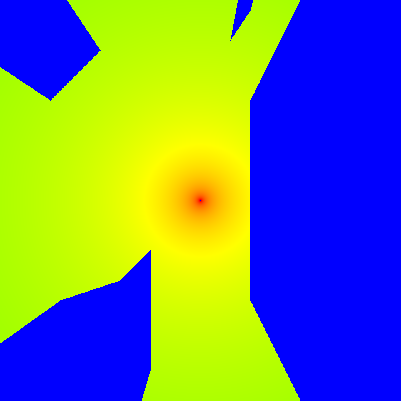
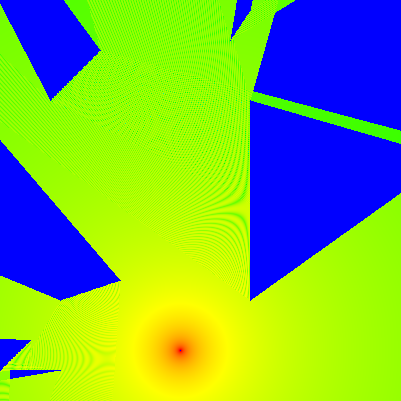
feat: 2d raytracing go finished

diff --git a/backendGo/utils/2draytracing/main.go b/backendGo/utils/2draytracing/main.go
@@ -112,6 +112,7 @@ func (rt *RayTracing) calculateRayTracing() {
 			if checkLineOfSight(rt.TransmitterPos, receiverPos, rt.Walls) {
 				H += calculateTransmittance(receiverPos, rt.TransmitterPos, rt.WaveLength, 1.0)
 			}
+			H += calculateSingleWallReflection(rt.MirroredTransmitters, rt.TransmitterPos, receiverPos, rt.Walls, rt.WaveLength, rt.ReflectionFactor)
 			if H == 0 {
 				rt.PowerMap[i][j] = -150
 			} else {
@@ -130,6 +131,32 @@ func checkLineOfSight(transmitterPos, receiverPos Point, walls []Vector) bool {
 	return true
 }
 
+func calculateSingleWallReflection(mirroredTransmitters []Point, transmitterPos, receiverPos Point, walls []Vector, waveLength, reflectionFactor float64) complex128 {
+	H := complex(0,0)
+	for i, wall := range walls {
+		if twoVectors(receiverPos, mirroredTransmitters[i], wall.A, wall.B) <= 0 {
+			continue
+		} 
+		reflectionPoint := calculateCrossPoint(receiverPos, mirroredTransmitters[i], wall.A, wall.B)
+		collision := false
+		for j := range(len(walls)-1) {
+			index := (i+j+1) % len(walls)
+			if twoVectors(transmitterPos, reflectionPoint, walls[index].A, walls[index].B) >= 0 {
+				collision = true
+				break
+			}
+			if twoVectors(reflectionPoint, receiverPos, walls[index].A, walls[index].B) >= 0{
+				collision = true
+				break
+			}
+		}
+		if !collision {
+			H += calculateTransmittance(receiverPos, mirroredTransmitters[i], waveLength, reflectionFactor)
+		}
+	}
+	return H
+}
+
 func calculateTransmittance(p1, p2 Point, waveLength, reflectionRef float64) complex128 {
 	r := calculateDist(p1, p2)
 	if r > 0 {
@@ -139,6 +166,29 @@ func calculateTransmittance(p1, p2 Point, waveLength, reflectionRef float64) com
 		return H
 	} else {
 		return 0
+	}
+}
+func calculateCrossPoint (A, B, C, D Point) Point {
+	if A.X == B.X {
+		x := A.X
+		a2 := (D.Y - C.Y)/(D.X - C.X)
+		b2 := C.Y - a2 * C.X
+		y := a2 * x + b2
+		return Point{X:x, Y:y}
+	} else if C.X == D.X{
+		x := C.X
+		a1 := (B.Y-A.Y)/(B.X-A.X)
+		b1 := A.Y - a1*A.X
+		y := a1 * x + b1
+		return Point{X:x, Y:y}
+	} else {
+		a1 := (B.Y-A.Y)/(B.X-A.X)
+		b1 := A.Y - a1*A.X
+		a2 := (D.Y - C.Y)/(D.X - C.X)
+		b2 := C.Y - a2 * C.X
+		x := (b2-b1)/(a1-a2)
+		y := a1 * x + b1
+		return Point{X:x, Y:y}
 	}
 }
 func calculateDist(p1, p2 Point) float64 {
@@ -320,11 +370,11 @@ func getHeatmapColor(value float64) (uint8, uint8, uint8) {
 
 func main() {
 	matrixDimensions := Point{X:40, Y:40}
-	transmitterPos := Point{X:20, Y:20}
-	transmitterPower := 10.0 // mW
-	transmitterFreq := 2.4   // GHz
-	reflectionFactor := 0.8
-	walls := []Vector{{A:Point{X:0,Y:3}, B:Point{X:3,Y:6}}, {A:Point{X:1,Y:3}, B:Point{X:6,Y:3}}, {A:Point{X:6,Y:10}, B:Point{X:12,Y:12}}, {A:Point{X:15,Y:15}, B:Point{X:15,Y:3}},{A:Point{X:25,Y:10}, B:Point{X:25,Y:30}},{A:Point{X:5,Y:30}, B:Point{X:10,Y:35}},{A:Point{X:23,Y:36}, B:Point{X:25,Y:39}}}
+	transmitterPos := Point{X:18, Y:5}
+	transmitterPower := 5.0 // mW
+	transmitterFreq := 3.4   // GHz
+	reflectionFactor := 0.7
+	walls := []Vector{{A:Point{X:0,Y:3}, B:Point{X:3,Y:6}}, {A:Point{X:1,Y:3}, B:Point{X:6,Y:3}}, {A:Point{X:6,Y:10}, B:Point{X:12,Y:12}},{A:Point{X:25,Y:10}, B:Point{X:25,Y:30}},{A:Point{X:5,Y:30}, B:Point{X:10,Y:35}},{A:Point{X:23,Y:36}, B:Point{X:25,Y:39}}}
 
 	raytracing := NewRayTracing(matrixDimensions, transmitterPos, transmitterPower, transmitterFreq, reflectionFactor, walls)
 	fmt.Printf("%v", raytracing.MirroredTransmitters)
